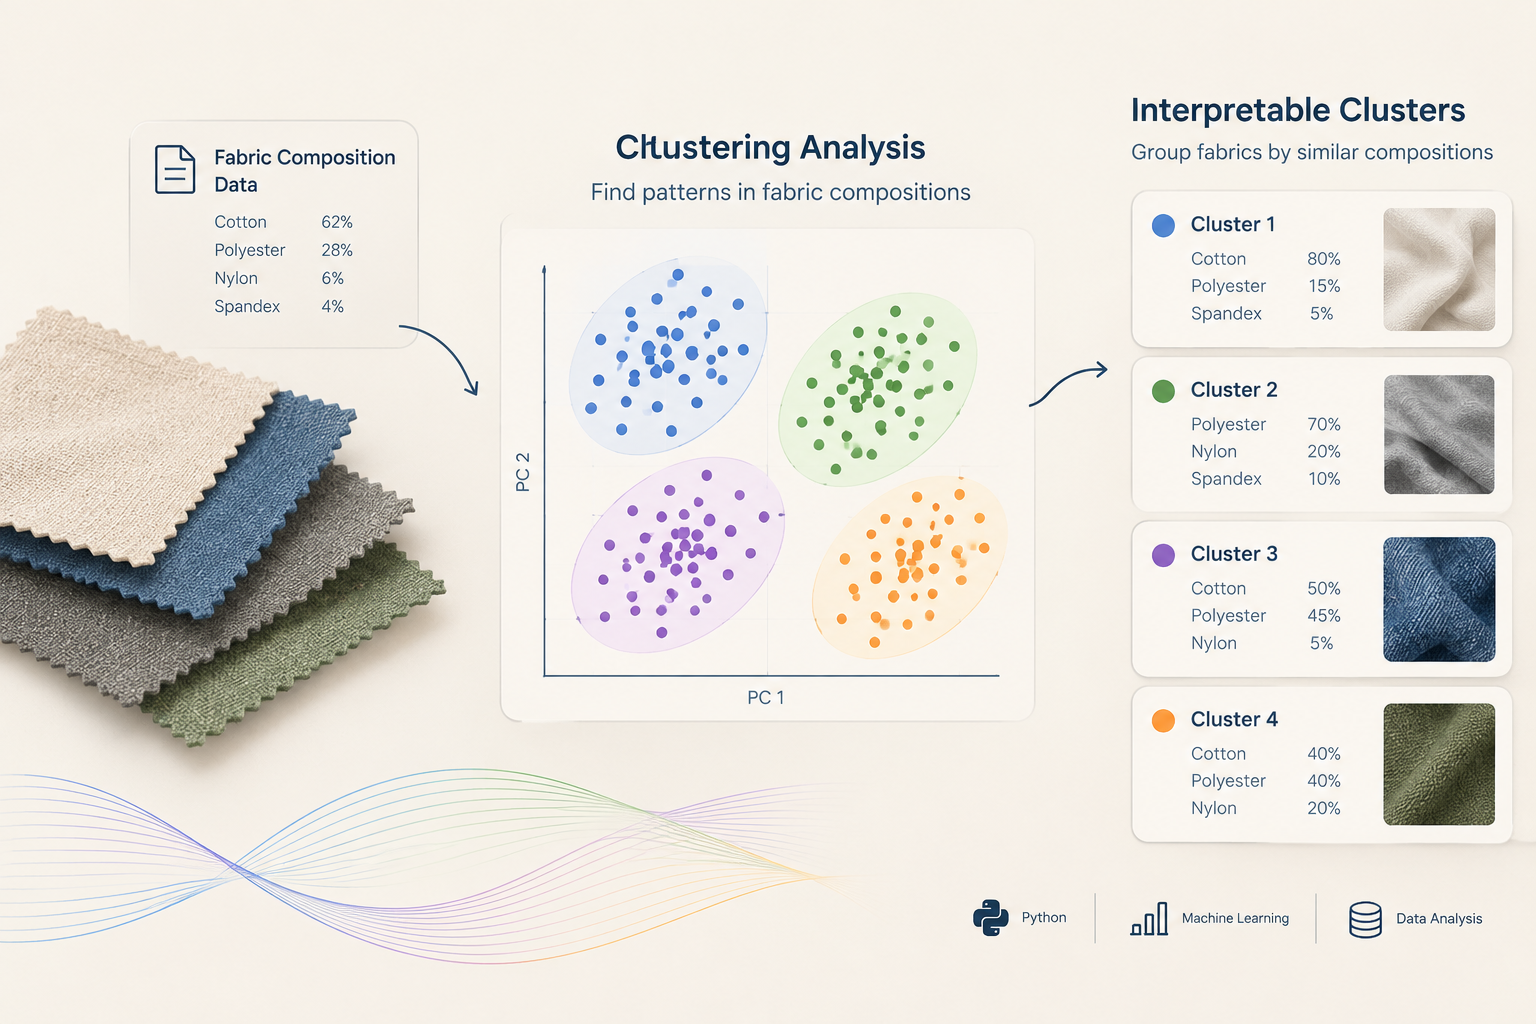
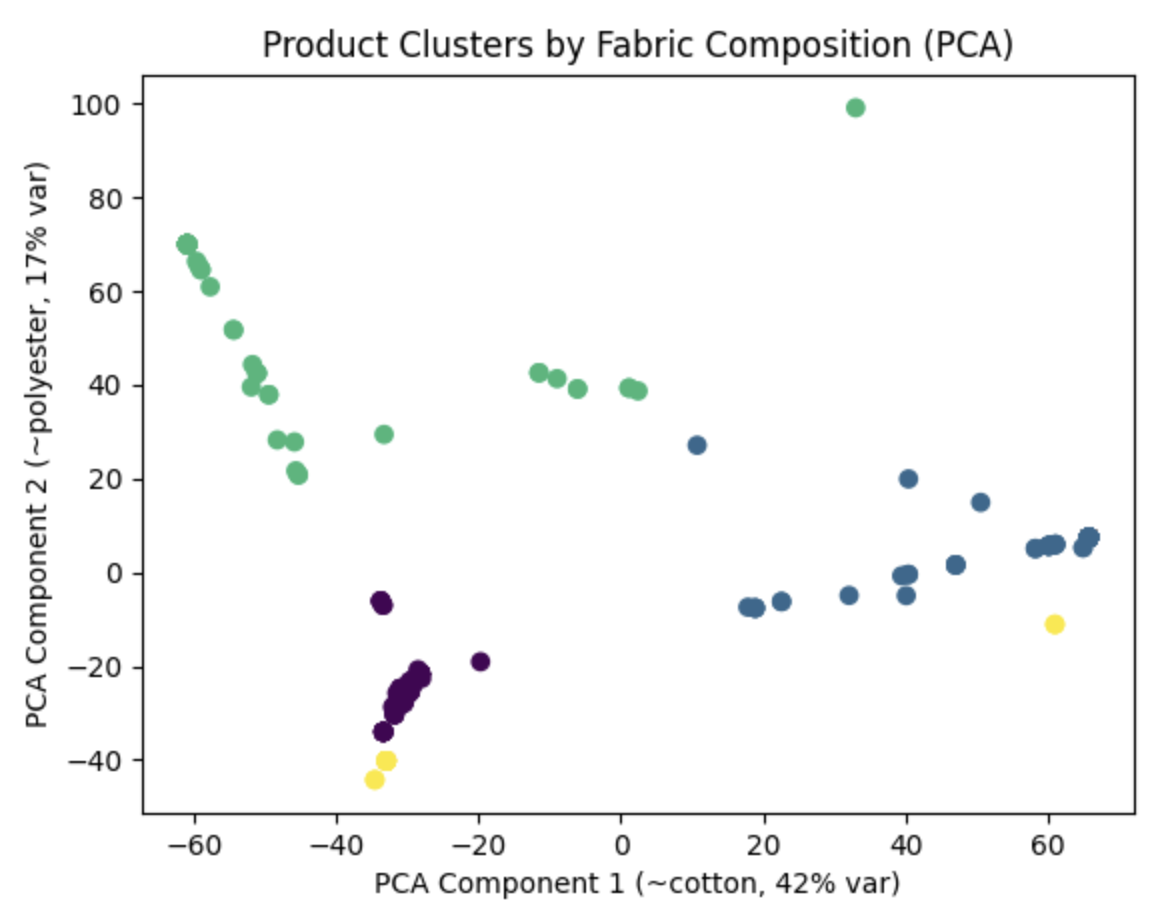
Add TFT Rolldown Trainer and YouTube analysis projects, reorder projects, update images

diff --git a/src/config.ts b/src/config.ts
@@ -8,6 +8,9 @@ import miniMinecraftImage from "./assets/mini-minecraft.png";
 import uChicagoImage from "./assets/uchicago.png";
 import uPennImage from "./assets/upenn.png";
 import interSystemsImage from "./assets/intersystems.jpg";
+import youtubeAnalysisImage from "./assets/youtube-analysis.png";
+import rolldownTrainerImage from "./assets/rolldown-trainer.png";
+
 
 export const siteConfig = {
   profileImage,
@@ -39,6 +42,15 @@ export const siteConfig = {
       image: fabricClusteringImage,
     },
     {
+      name: "Dao TFT",
+      description:
+        "Built a website for the online competitive game Teamfight Tactics (TFT) that allows players to enter information of their in-game status and receive proper recommendations for gameplay decisions.",
+      link: "https://dao-tft.vercel.app/",
+      skills: ["TypeScript", "React", "ETL"],
+      tags: ["Web Development"],
+      image: daoTFTImage,
+    },
+    {
       name: "Monte Carlo Path Tracer",
       description:
         "Implemented a path tracer following pbr-book.org for rendering 3-D scenes using global illumination and aperture setting simulation.",
@@ -46,6 +58,15 @@ export const siteConfig = {
       skills: ["C++", "OpenGL"],
       tags: ["Computer Graphics"],
       image: pathTracerImage,
+    },
+    {
+      name: "TFT Rolldown Trainer",
+      description:
+        "Created a web-based practice tool environment for players of the game Teamfight Tactics (TFT) to exercise the rolldown mechanic.",
+      link: "https://eddieh80.github.io/tft-rolldown-app/",
+      skills: ["HTML", "CSS", "JavaScript"],
+      tags: ["Web Development"],
+      image: rolldownTrainerImage,
     },
     {
       name: "Procedural Toon Horse Generator",
@@ -66,21 +87,20 @@ export const siteConfig = {
       image: tibetanMonasteryImage,
     },
     {
-      name: "Dao TFT",
-      description:
-        "Built a website for the online competitive game Teamfight Tactics (TFT) that allows players to enter information of their in-game status and receive proper recommendations for gameplay decisions.",
-      link: "https://dao-tft.vercel.app/",
-      skills: ["TypeScript", "React", "ETL", "AI-assisted Development"],
-      tags: ["Web Development"],
-      image: daoTFTImage,
-    },
-    {
       name: "Mini Minecraft",
       description:
         "Collaborated in a team of three to recreate core features of the game Minecraft. Developed key features such as procedural terrain generation, L-system rivers, procedurally placed assets, and additional customized biomes.",
       link: "https://vimeo.com/489007178?share=copy&fl=sv&fe=ci",
       skills: ["C++", "Procedural Noise Functions", "L-Systems"],
       tags: ["Computer Graphics"],
+      image: miniMinecraftImage,
+    },
+    {
+      name: "YouTube Video Data Analysis",
+      description: "Worked in a team of two to analyze a trending YouTube video dataset to determine similarities of trending videos among different countries and identify features important for videos to trend in various video categories.",
+      link: "https://colab.research.google.com/drive/13VedlC1Lxt6D0H9HMBCcMIhrlP0AJqyY",
+      skills: ["Big Data Analytics", "CNN", "Linear Regression"],
+      tags: ["Data Science"],
       image: miniMinecraftImage,
     },
   ],
